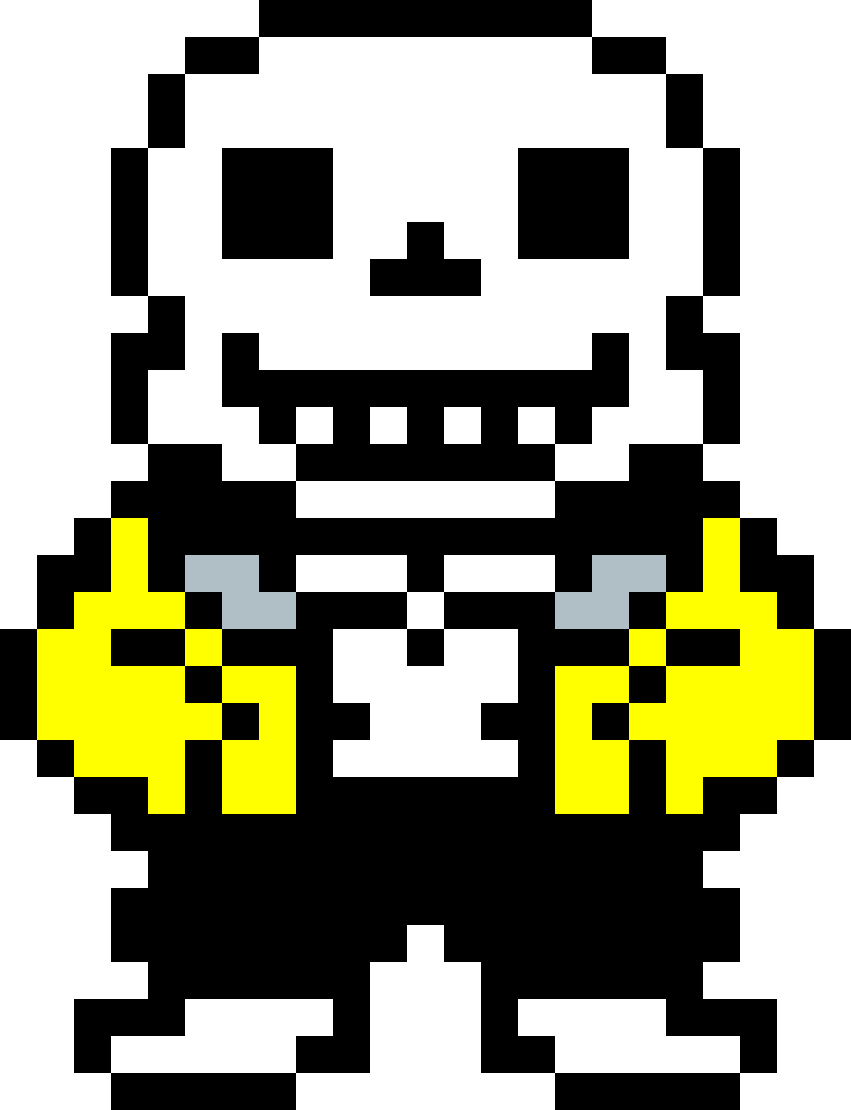
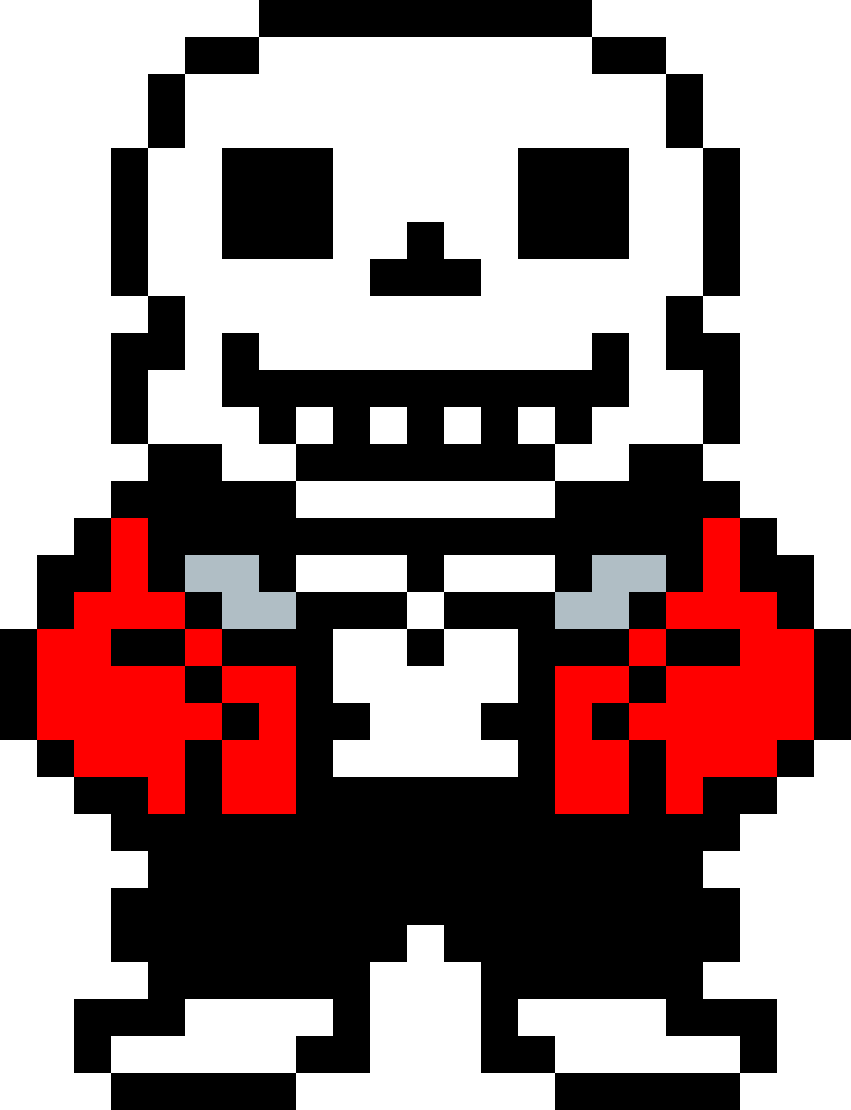
Updated tool to take input of desired colour.

Changed region(s): [[0.0306, 0.4595, 0.3666, 0.7351], [0.6416, 0.4595, 0.9777, 0.7351]]

diff --git a/reskin.py b/reskin.py
@@ -54,9 +54,15 @@ def tool(image: str):
     pygame.display.flip()
 
     colour_list = find_colours(image)
-    print(colour_list)
+    for item in colour_list: print(item, end=", ")
+    print("")
     colour_to_replace = colour_list[int(input("Select one of the colours to replace: "))-1]
-    image = change_colours(image, colour_to_replace, colours.yellow)  # currently just using yellow for development.
+
+    colour_options = [colours.blue, colours.grey, colours.green, colours.yellow, colours.red]
+    for item in colour_options: print(item, end=", ")
+    print("")
+    colour_to_use = colour_options[int(input("What colour would you like to replace it with?: "))-1]
+    image = change_colours(image, colour_to_replace, colour_to_use)
 
     window.blit(pygame.transform.scale(image, (300, 300)), (300, 0))  # Draw reskinned image to screen.
     pygame.display.flip()
